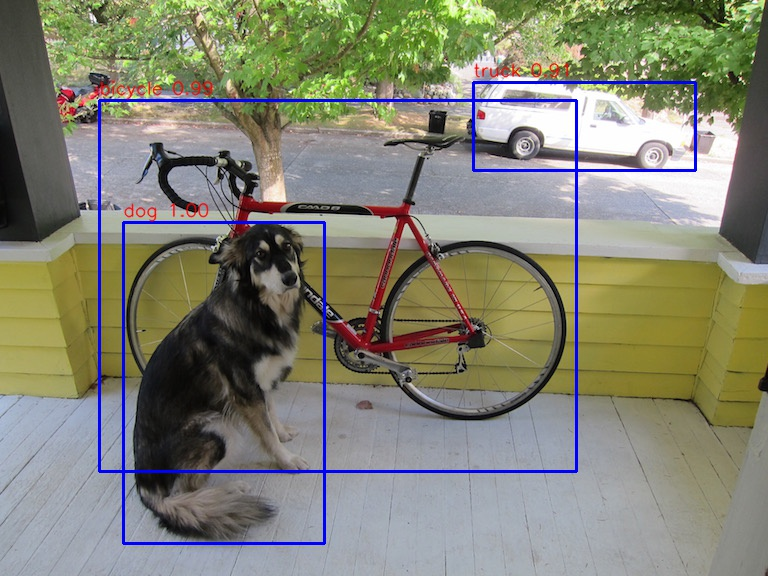
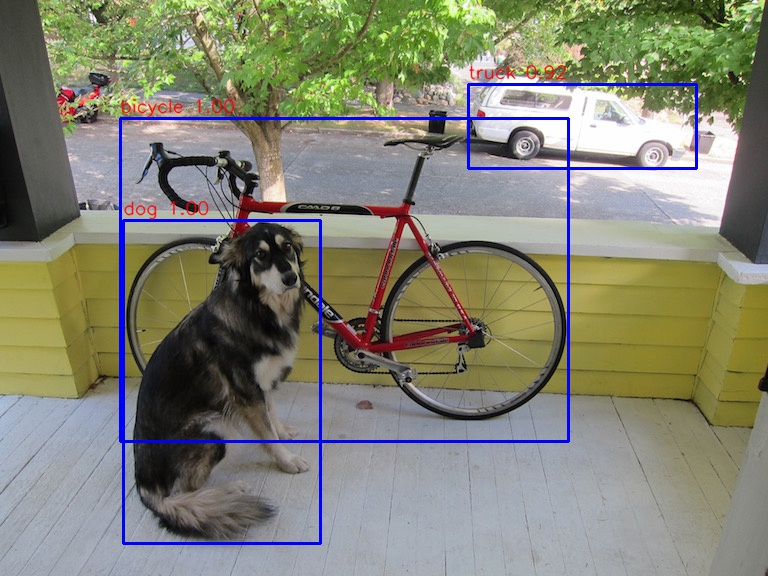
fix padding problem.

Changed region(s): [[0.125, 0.0938, 0.9375, 0.9375]]

diff --git a/yad2k.py b/yad2k.py
@@ -14,7 +14,7 @@ from collections import defaultdict
 import numpy as np
 from keras import backend as K
 from keras.layers import (Conv2D, GlobalAveragePooling2D, Input, Reshape,
-                          UpSampling2D, Activation)
+                          ZeroPadding2D, UpSampling2D, Activation)
 from keras.layers.advanced_activations import LeakyReLU
 from keras.layers.merge import concatenate, add
 from keras.layers.normalization import BatchNormalization
@@ -101,6 +101,7 @@ def _main(args):
     weight_decay = float(cfg_parser['net_0']['decay']
                          ) if 'net_0' in cfg_parser.sections() else 5e-4
     count = 0
+
     for section in cfg_parser.sections():
         print('Parsing section {}'.format(section))
         if section.startswith('convolutional'):
@@ -110,9 +111,6 @@ def _main(args):
             pad = int(cfg_parser[section]['pad'])
             activation = cfg_parser[section]['activation']
             batch_normalize = 'batch_normalize' in cfg_parser[section]
-
-            # padding='same' is equivalent to Darknet pad=1
-            padding = 'same' if pad == 1 else 'valid'
 
             # Setting weights.
             # Darknet serializes convolutional weights as:
@@ -174,6 +172,11 @@ def _main(args):
                     'Unknown activation function `{}` in section {}'.format(
                         activation, section))
 
+            padding = 'same' if pad == 1 and stride == 1 else 'valid'
+            # Adjust padding model for darknet.
+            if stride == 2:
+                prev_layer = ZeroPadding2D(((1, 0), (1, 0)))(prev_layer)
+
             # Create Conv2D layer
             conv_layer = (Conv2D(
                 filters, (size, size),
@@ -187,6 +190,7 @@ def _main(args):
             if batch_normalize:
                 conv_layer = (BatchNormalization(
                     weights=bn_weight_list))(conv_layer)
+
             prev_layer = conv_layer
 
             if activation == 'linear':

diff --git a/model/yolo_model.py b/model/yolo_model.py
@@ -43,8 +43,8 @@ class YOLO:
         box_confidence = np.expand_dims(box_confidence, axis=-1)
         box_class_probs = K.get_value(K.sigmoid(out[..., 5:]))
 
-        col = np.tile(np.arange(1, grid_w + 1), grid_w).reshape(-1, grid_w)
-        row = np.tile(np.arange(1, grid_h + 1).reshape(-1, 1), grid_h)
+        col = np.tile(np.arange(0, grid_w), grid_w).reshape(-1, grid_w)
+        row = np.tile(np.arange(0, grid_h).reshape(-1, 1), grid_h)
 
         col = col.reshape(grid_h, grid_w, 1, 1).repeat(3, axis=-2)
         row = row.reshape(grid_h, grid_w, 1, 1).repeat(3, axis=-2)

diff --git a/demo.py b/demo.py
@@ -140,5 +140,7 @@ if __name__ == '__main__':
                 cv2.imwrite('images/res/' + f, image)
 
     # detect vedio.
+    """
     video = 'E:/video/car.flv'
     detect_vedio(video, yolo, all_classes)
+    """
